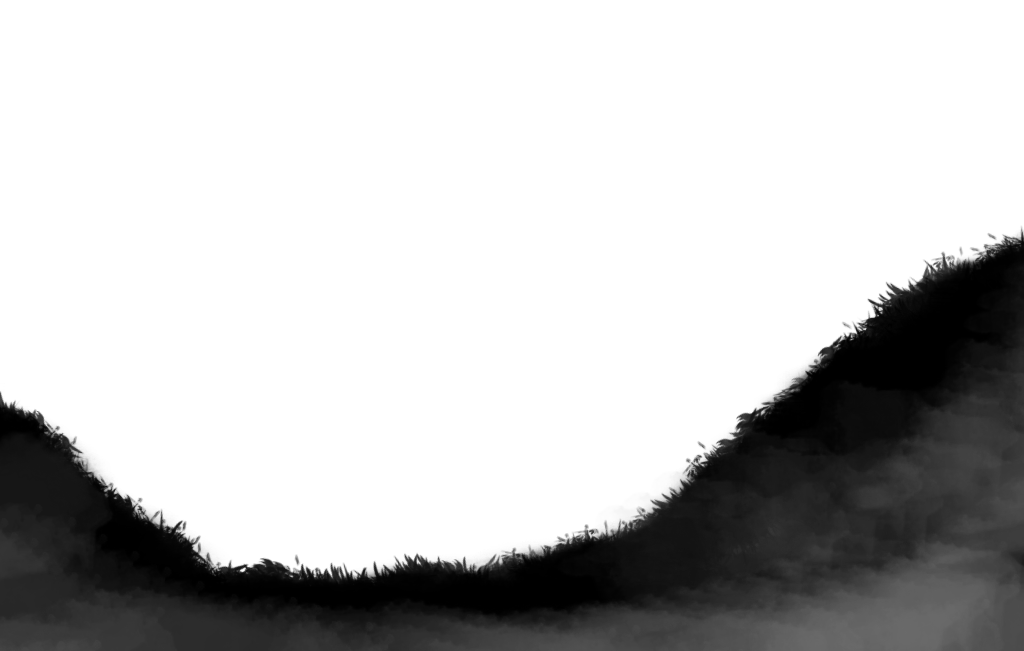
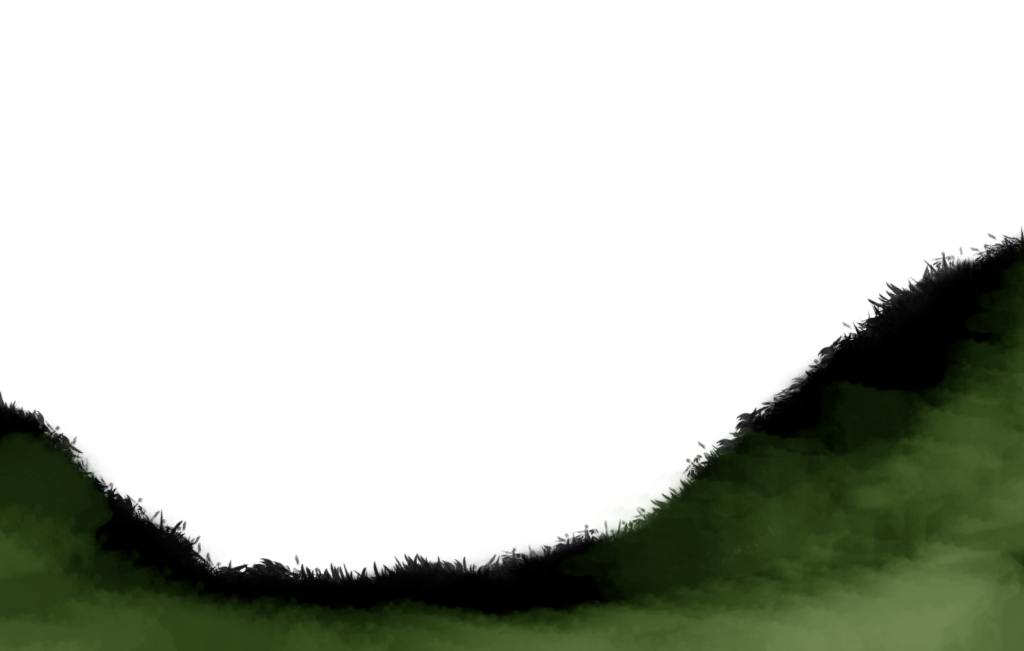
Movied the main character uphill.Enlarged the mouse and made the alive grass green.

diff --git a/nobots-proof-of-concept/nobots-proof-of-concept/MainCharacter.cs b/nobots-proof-of-concept/nobots-proof-of-concept/MainCharacter.cs
@@ -27,7 +27,7 @@ namespace nobots_proof_of_concept
 
         public override void Initialize()
         {
-            effect = SpriteEffects.None;
+            effect = SpriteEffects.FlipHorizontally;
             isHaunted = true;
             isSpaceDown = false;
 
@@ -38,7 +38,7 @@ namespace nobots_proof_of_concept
         {
             spriteBatch = new SpriteBatch(GraphicsDevice);
             texture = Game.Content.Load<Texture2D>("Girl");
-            rectangle = new Rectangle((int)(Game1.screenWidth / 2), (int)(Game1.screenHeight / 1.7), texture.Width, texture.Height);
+            rectangle = new Rectangle(750, 50, texture.Width, texture.Height);
             body = BodyFactory.CreateCircle(world, 0.02f * rectangle.Width / 4.0f, 50.0f);
             body.Position = new Vector2(0.02f * rectangle.X, 0.02f * rectangle.Y);
             body.BodyType = BodyType.Dynamic;
